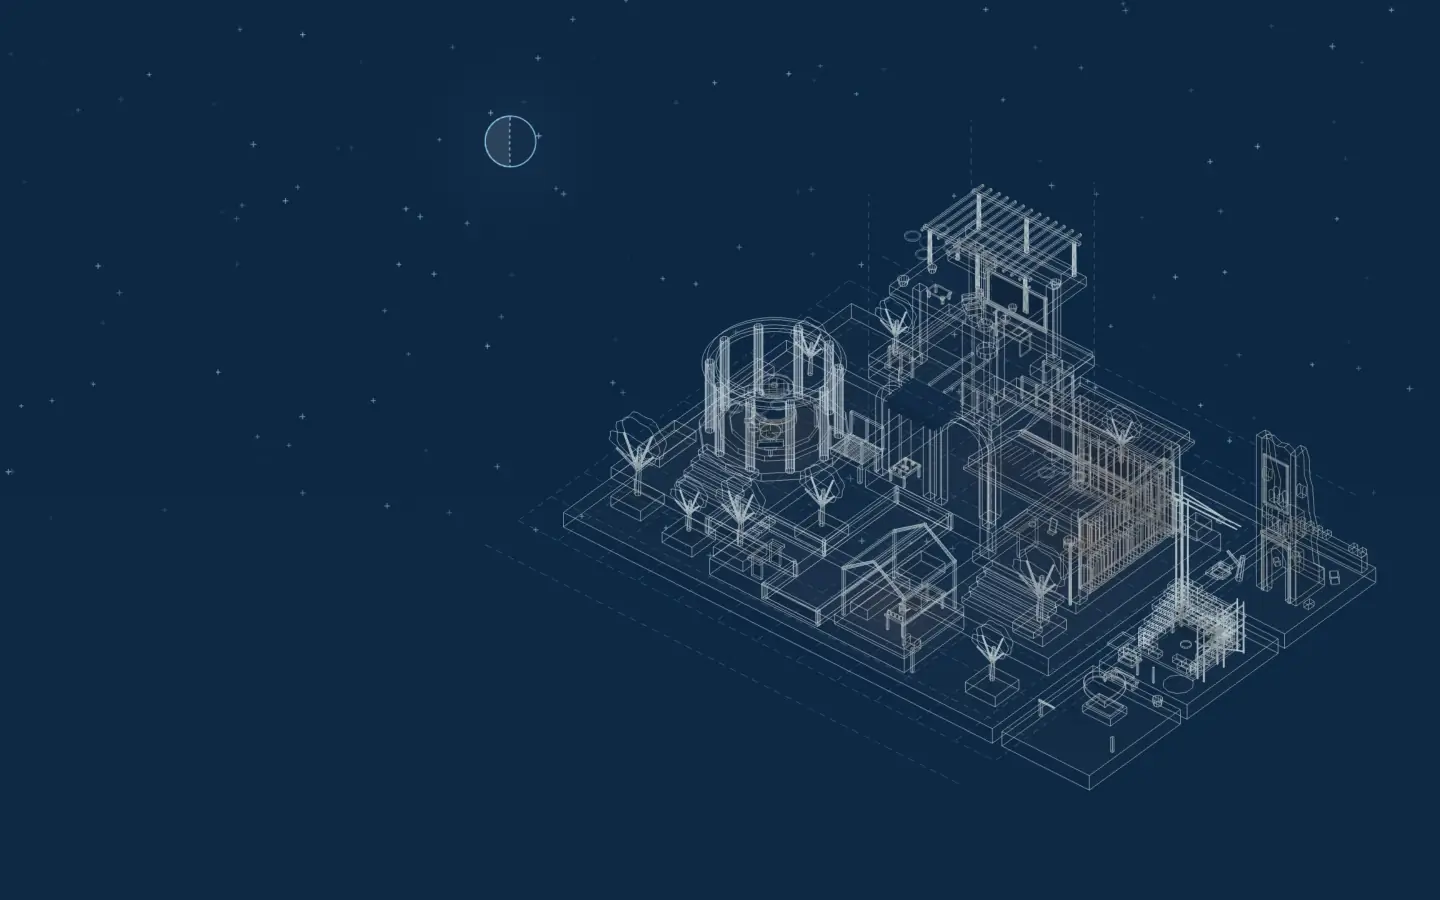
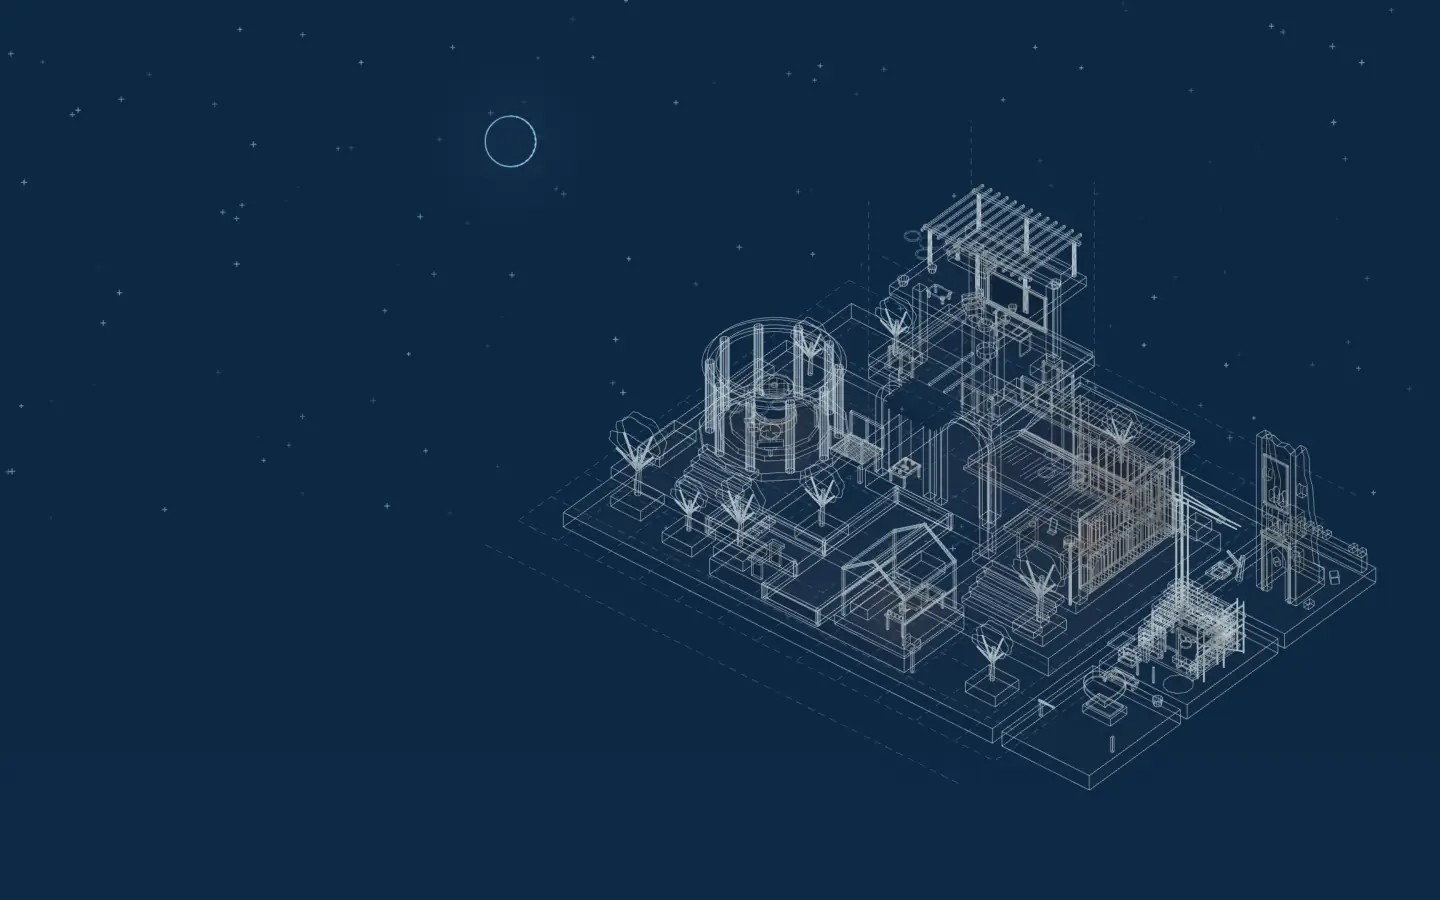
Show the work at MCQ Scan in the garden's workshop
The MCQ Scan chapter borrowed the workshop with nothing of its own in it.
Two groups of props stand for that work, as symbols only, since company
work is never shown:

- AgentDiet: a barrier across the workshop's doorway, a reader post with
  a seal, and three biscuit-coloured tokens hung from the gatepost, each
  smaller than the last (a delegation can only narrow).
- Store Chat: a rail of three garments under a speech bubble, inside the
  front wall.

The chapter's cue frames the workshop as close as the heart garden and
marks it with the hover ring. The twelve poster stills are re-captured
from the updated garden (npm run stills), each under 100 KB.

Changed region(s): [[0.7812, 0.6844, 0.8438, 0.7467], [0.3438, 0.1244, 0.375, 0.1867]]

diff --git a/src/scene.ts b/src/scene.ts
@@ -1654,6 +1654,49 @@ async function buildGarden(
   beam(lampKnee, lampHead, 0.008, "dark");
   add(new T.ConeGeometry(0.05, 0.07, 10, 1, true), lampHead.x, lampHead.y - 0.02, lampHead.z, "ochre", [0, 0, 0.6]);
 
+  // The work at MCQ Scan, which the workshop also stands for. Symbols only:
+  // company work is never shown. Fixed values, no random().
+  // AgentDiet, at the doorway: a permission is checked where the tool runs.
+  // A barrier across the gap in the front wall, a reader post outside it with
+  // a seal on its panel, and three biscuit-coloured tokens hung from the
+  // gatepost, each smaller than the last: a delegation can only narrow.
+  const gateL = x0 + 0.5,
+    gateR = x0 + 0.94;
+  box(gateL, siteY + 0.3, z1, 0.06, 0.6, 0.06, "dark");
+  box(gateR, siteY + 0.5, z1, 0.06, 1.0, 0.06, "dark");
+  box((gateL + gateR) / 2, siteY + 0.42, z1 + 0.05, gateR - gateL + 0.06, 0.035, 0.035, "ochre");
+  if (!lite)
+    for (let i = 0; i < 3; i++)
+      box(gateL + 0.09 + i * 0.13, siteY + 0.42, z1 + 0.05, 0.05, 0.04, 0.04, "dark", false);
+  const readerX = gateL - 0.2,
+    readerZ = z1 + 0.2;
+  box(readerX, 0.36, readerZ, 0.08, 0.4, 0.08, "trim");
+  add(new T.BoxGeometry(0.14, 0.02, 0.11), readerX, 0.58, readerZ, "dark", [0.5, 0, 0]);
+  add(new T.CylinderGeometry(0.04, 0.04, 0.015, 12), readerX, 0.596, readerZ + 0.009, "terracotta", [0.5, 0, 0], false);
+  const armY = siteY + 0.97;
+  box(gateR + 0.21, armY, z1, 0.48, 0.03, 0.03, "dark");
+  ([[0.1, 0.085], [0.25, 0.06], [0.37, 0.04]] as const).forEach(([dx, r]) => {
+    const tokenY = armY - 0.07 - r;
+    add(new T.CylinderGeometry(r, r, 0.022, 14), gateR + dx, tokenY, z1, "ochre", [Math.PI / 2, 0, 0]);
+    if (!lite)
+      beam(new T.Vector3(gateR + dx, armY, z1), new T.Vector3(gateR + dx, tokenY + r, z1), 0.004, "dark", false);
+  });
+  // Store Chat, a clothing-shopping assistant: a rail of three garments inside
+  // the front wall, under a speech bubble.
+  const railX = x0 + 0.27,
+    railZ = z1 - 0.21,
+    railY = siteY + 0.56;
+  box(railX - 0.16, siteY + 0.45, railZ, 0.025, 0.9, 0.025, "dark");
+  box(railX + 0.16, siteY + 0.28, railZ, 0.025, 0.56, 0.025, "dark");
+  box(railX, railY, railZ, 0.34, 0.02, 0.02, "dark");
+  (["terracotta", "glass", "ochre"] as const).forEach((c, i) =>
+    box(railX - 0.1 + i * 0.1, railY - 0.13, railZ, 0.085, 0.2, 0.03, c));
+  box(railX - 0.03, siteY + 0.82, railZ + 0.02, 0.22, 0.13, 0.03, "light");
+  add(new T.BoxGeometry(0.05, 0.05, 0.03), railX - 0.08, siteY + 0.75, railZ + 0.02, "light", [0, 0, Math.PI / 4], false);
+  if (!lite)
+    for (let i = 0; i < 3; i++)
+      box(railX - 0.08 + i * 0.05, siteY + 0.82, railZ + 0.037, 0.02, 0.02, 0.005, "dark", false);
+
   // The heart garden, on the plot that was left empty: BP Log, which reads a
   // blood-pressure monitor's display from a photo. A heart stands on a low
   // plinth, turned to the garden, and a pulse trace runs across the tile in

diff --git a/src/narrative/scene-adapter.ts b/src/narrative/scene-adapter.ts
@@ -91,8 +91,10 @@ export const sceneCues: Readonly<Record<ChapterId, ScenePoseCue>> = {
   whisperbook: cue("whisperbook", "build", { progress: 0.66, focus: "whisperbook", shift: [0, -0.06], room: 0.5 }, { shift: [0, -0.04], room: 0.56 }, { shift: [0, -0.08], room: 0.4 }),
   // The observatory ring gains presence.
   "energy-tools": cue("energy-tools", "build", { progress: 0.76, focus: "wattch", shift: [0.02, -0.06], room: 0.46 }, { shift: [0.02, -0.04], room: 0.5 }, { shift: [0, -0.02], room: 0.34 }),
-  // The workshop as the setting for delivery.
-  "mcq-scan": cue("mcq-scan", "build", { progress: 0.84, focus: "workshop", shift: [0.02, -0.06], room: 0.43 }, { shift: [0.02, -0.04], room: 0.46 }, { shift: [0.12, -0.12], room: 0.3 }),
+  // The workshop as the setting for the work at MCQ Scan: its gate (AgentDiet)
+  // and its clothes rail (Store Chat) are small, so it is drawn as close as
+  // the heart garden and marked with the hover ring.
+  "mcq-scan": cue("mcq-scan", "build", { progress: 0.84, focus: "workshop", shift: [0.02, -0.1], room: 0.7, mark: "workshop" }, { shift: [0.02, -0.12], room: 0.7 }, { shift: [0.08, -0.1], room: 0.36 }),
   // The tower and terraces, framed wider (about has no room: 1.4x focus).
   // Still Build: the final foliage and light (Bloom) are held back for Contact.
   about: cue("about", "build", { progress: 0.93, focus: "about", shift: [0.08, 0], room: 0.78 }, { shift: [0.06, 0], room: 0.78 }, { shift: [0.12, -0.04], room: 0.5 }),
